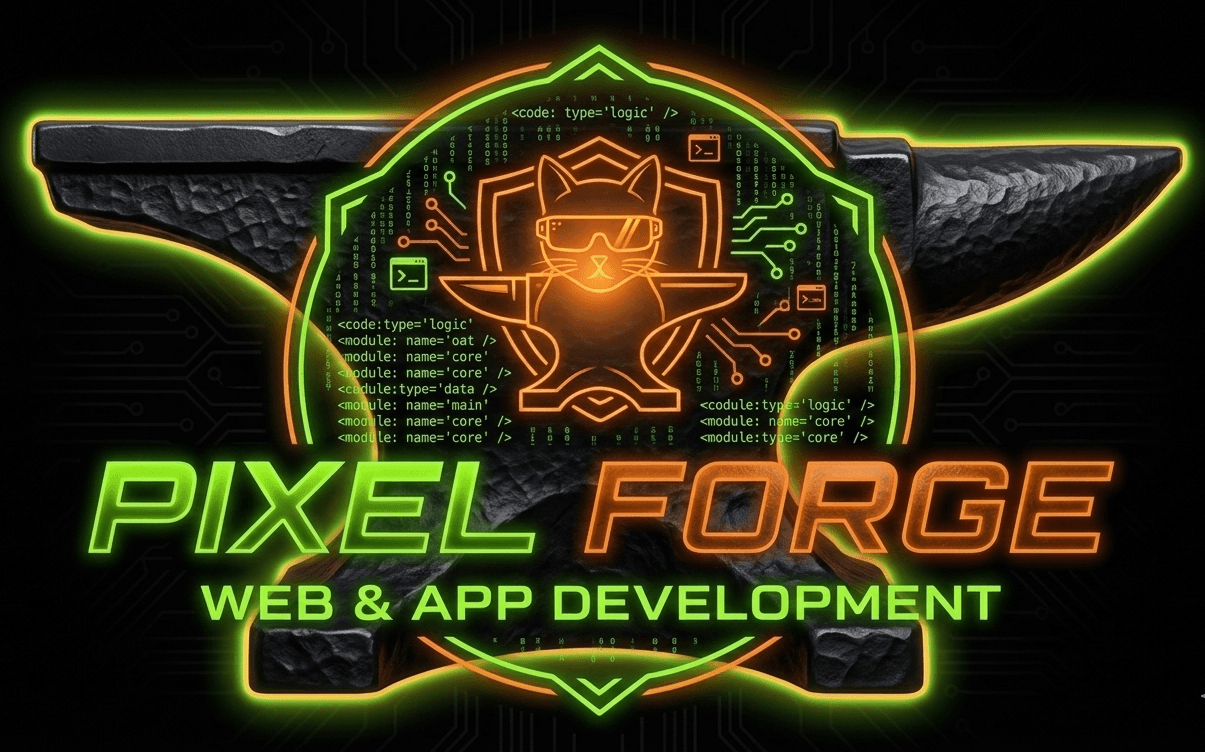
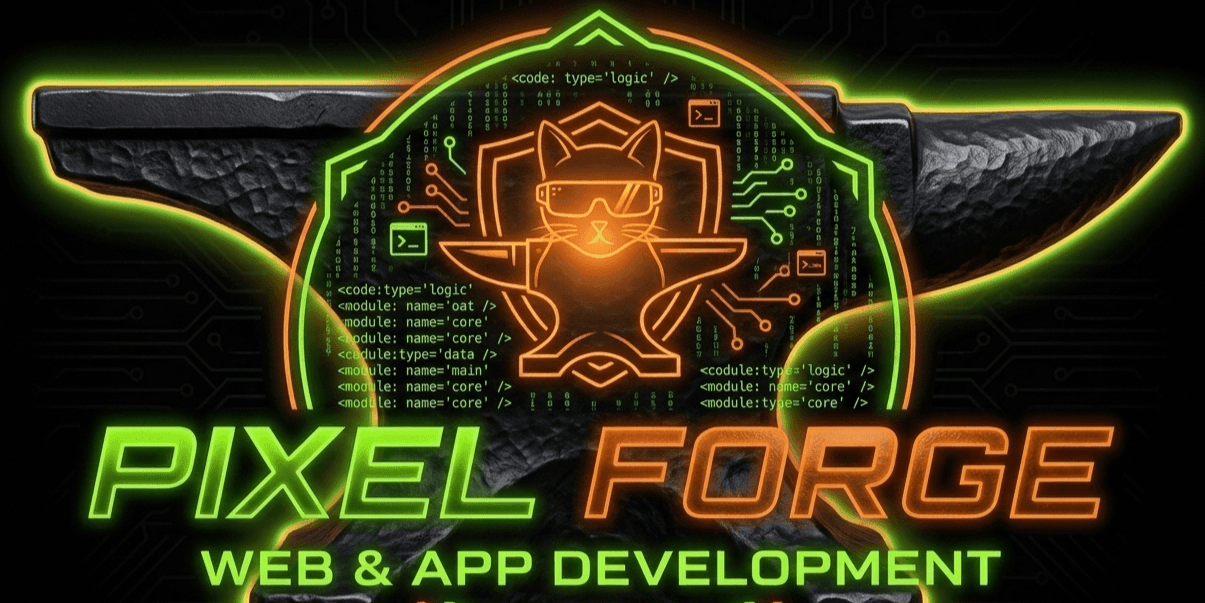
redimensionamento de arquivo para carregamento pelas redes

diff --git a/index.html b/index.html
@@ -12,8 +12,8 @@
     <meta property="og:title" content="Pixel Forge | Soluções Digitais & Engenharia de Software">
     <meta property="og:description" content="Transformamos ideias complexas em soluções digitais de alta performance.">
     <meta property="og:image" content="https://mac-toni.github.io/pixel-forge-site/assets/images/logo-pixel-forge-3">
-    <meta property="og:image:width" content="1200">
-    <meta property="og:image:height" content="630">
+    <meta property="og:image:width" content="1205">
+    <meta property="og:image:height" content="603">
     <meta property="og:locale" content="pt_BR">
 
     <meta name="twitter:card" content="summary_large_image">
